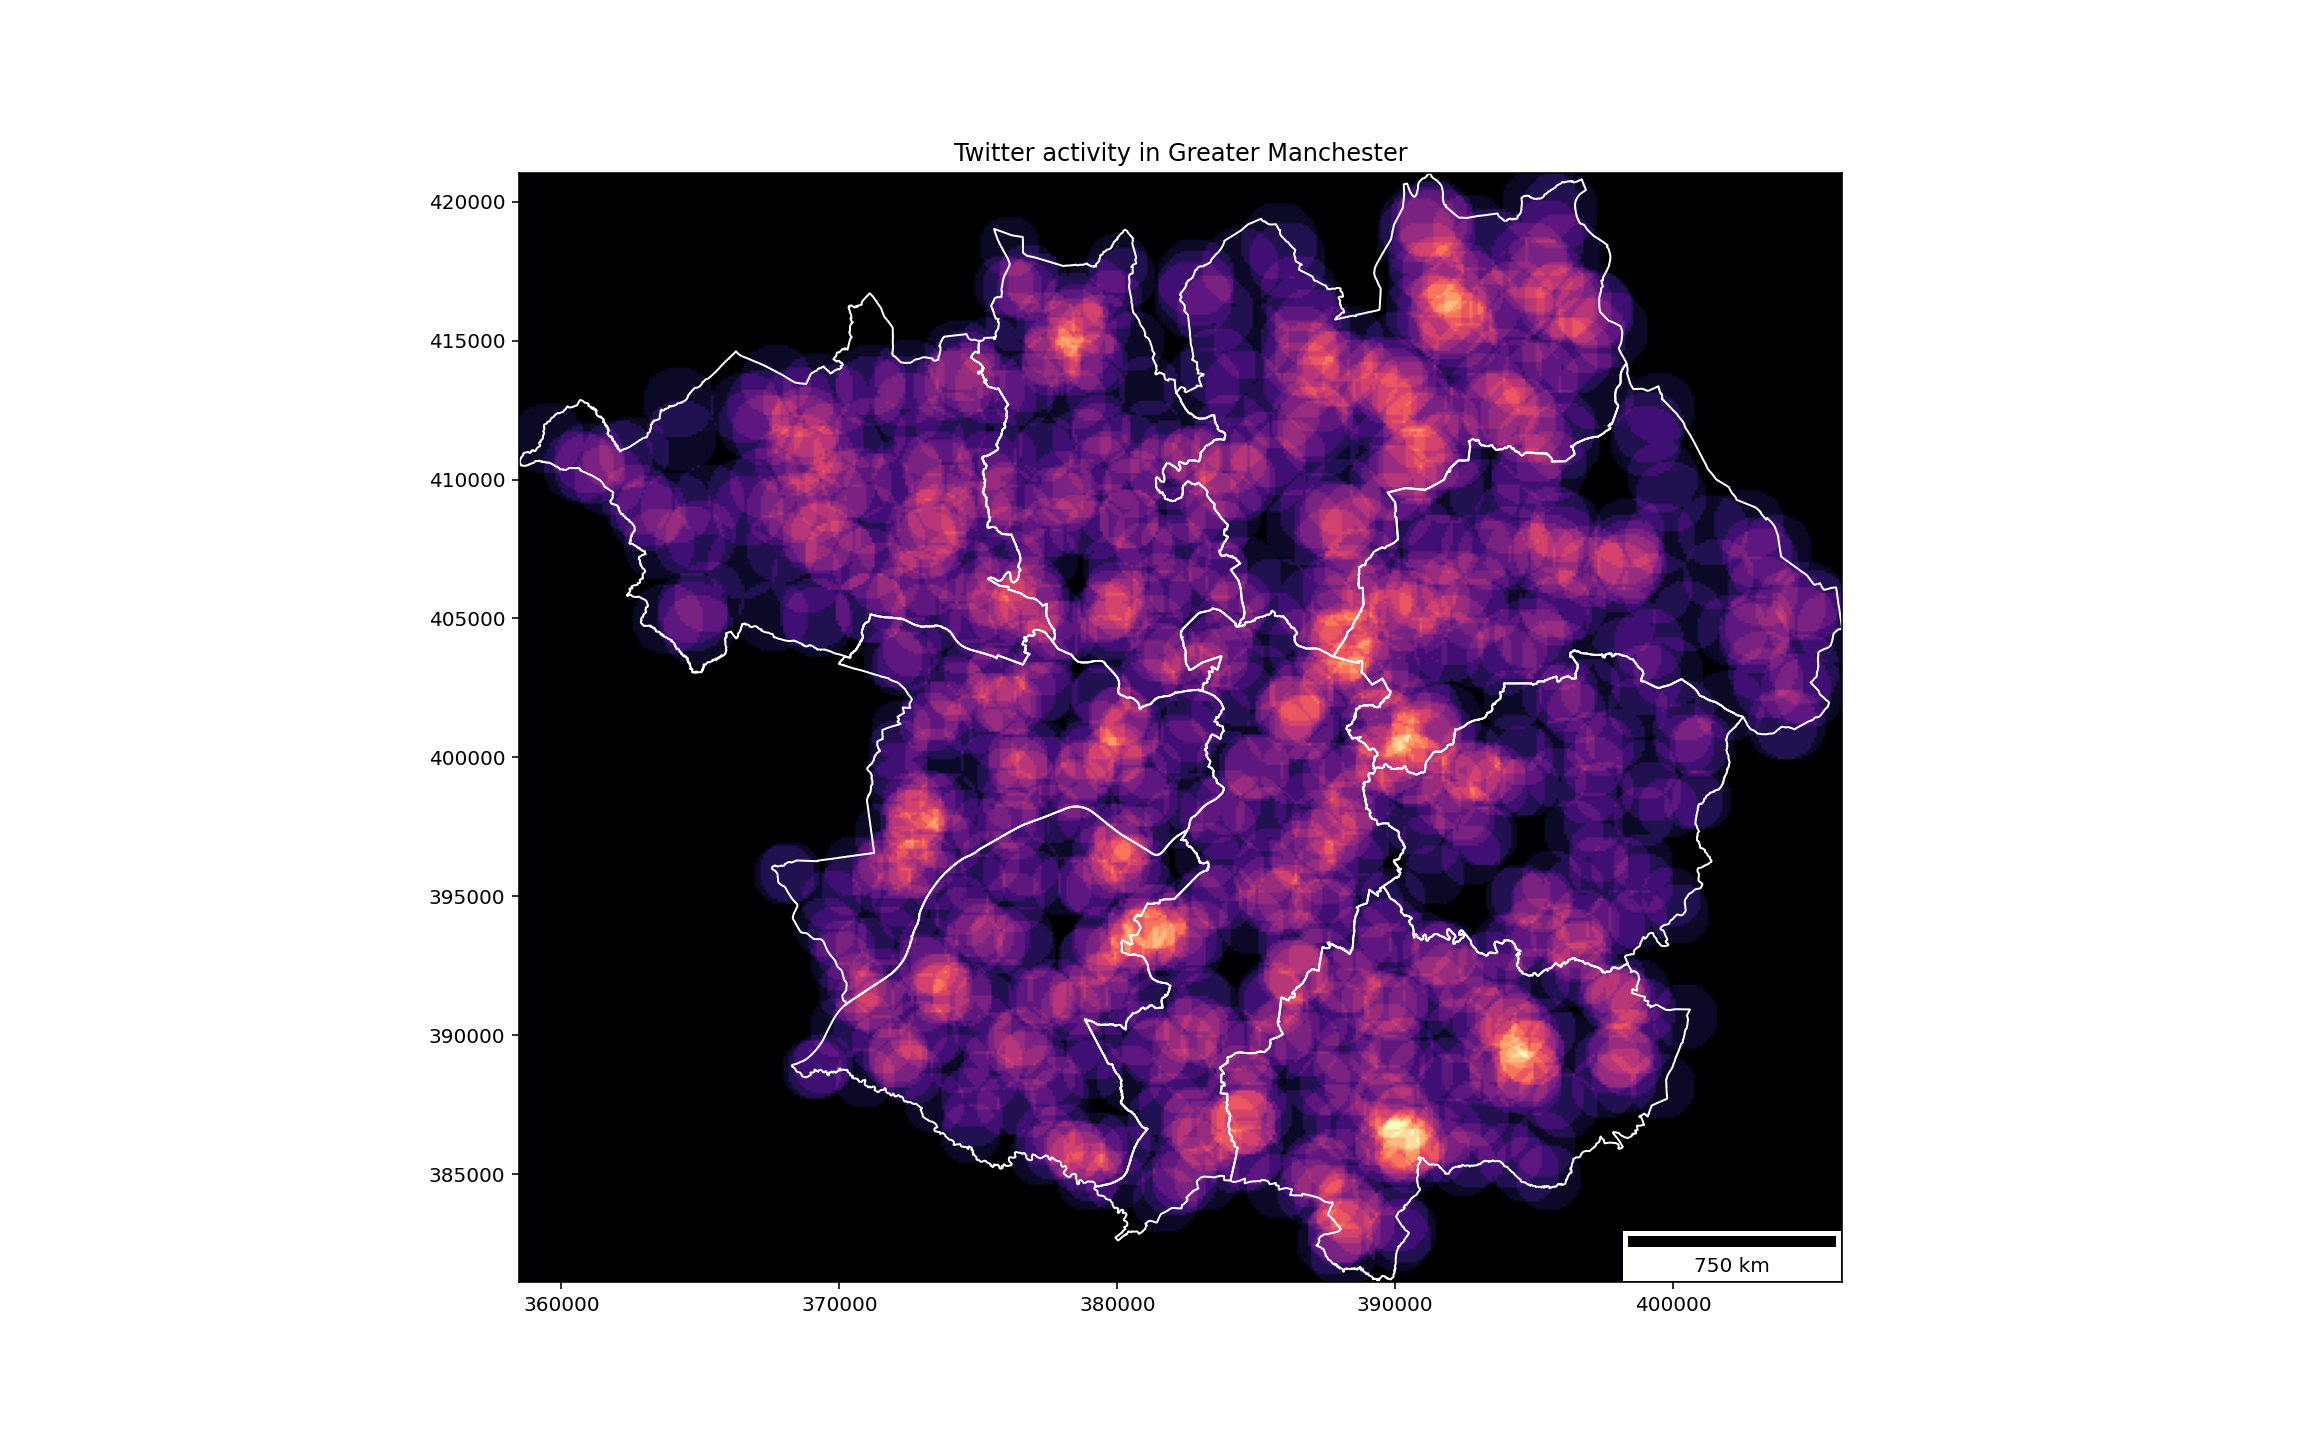
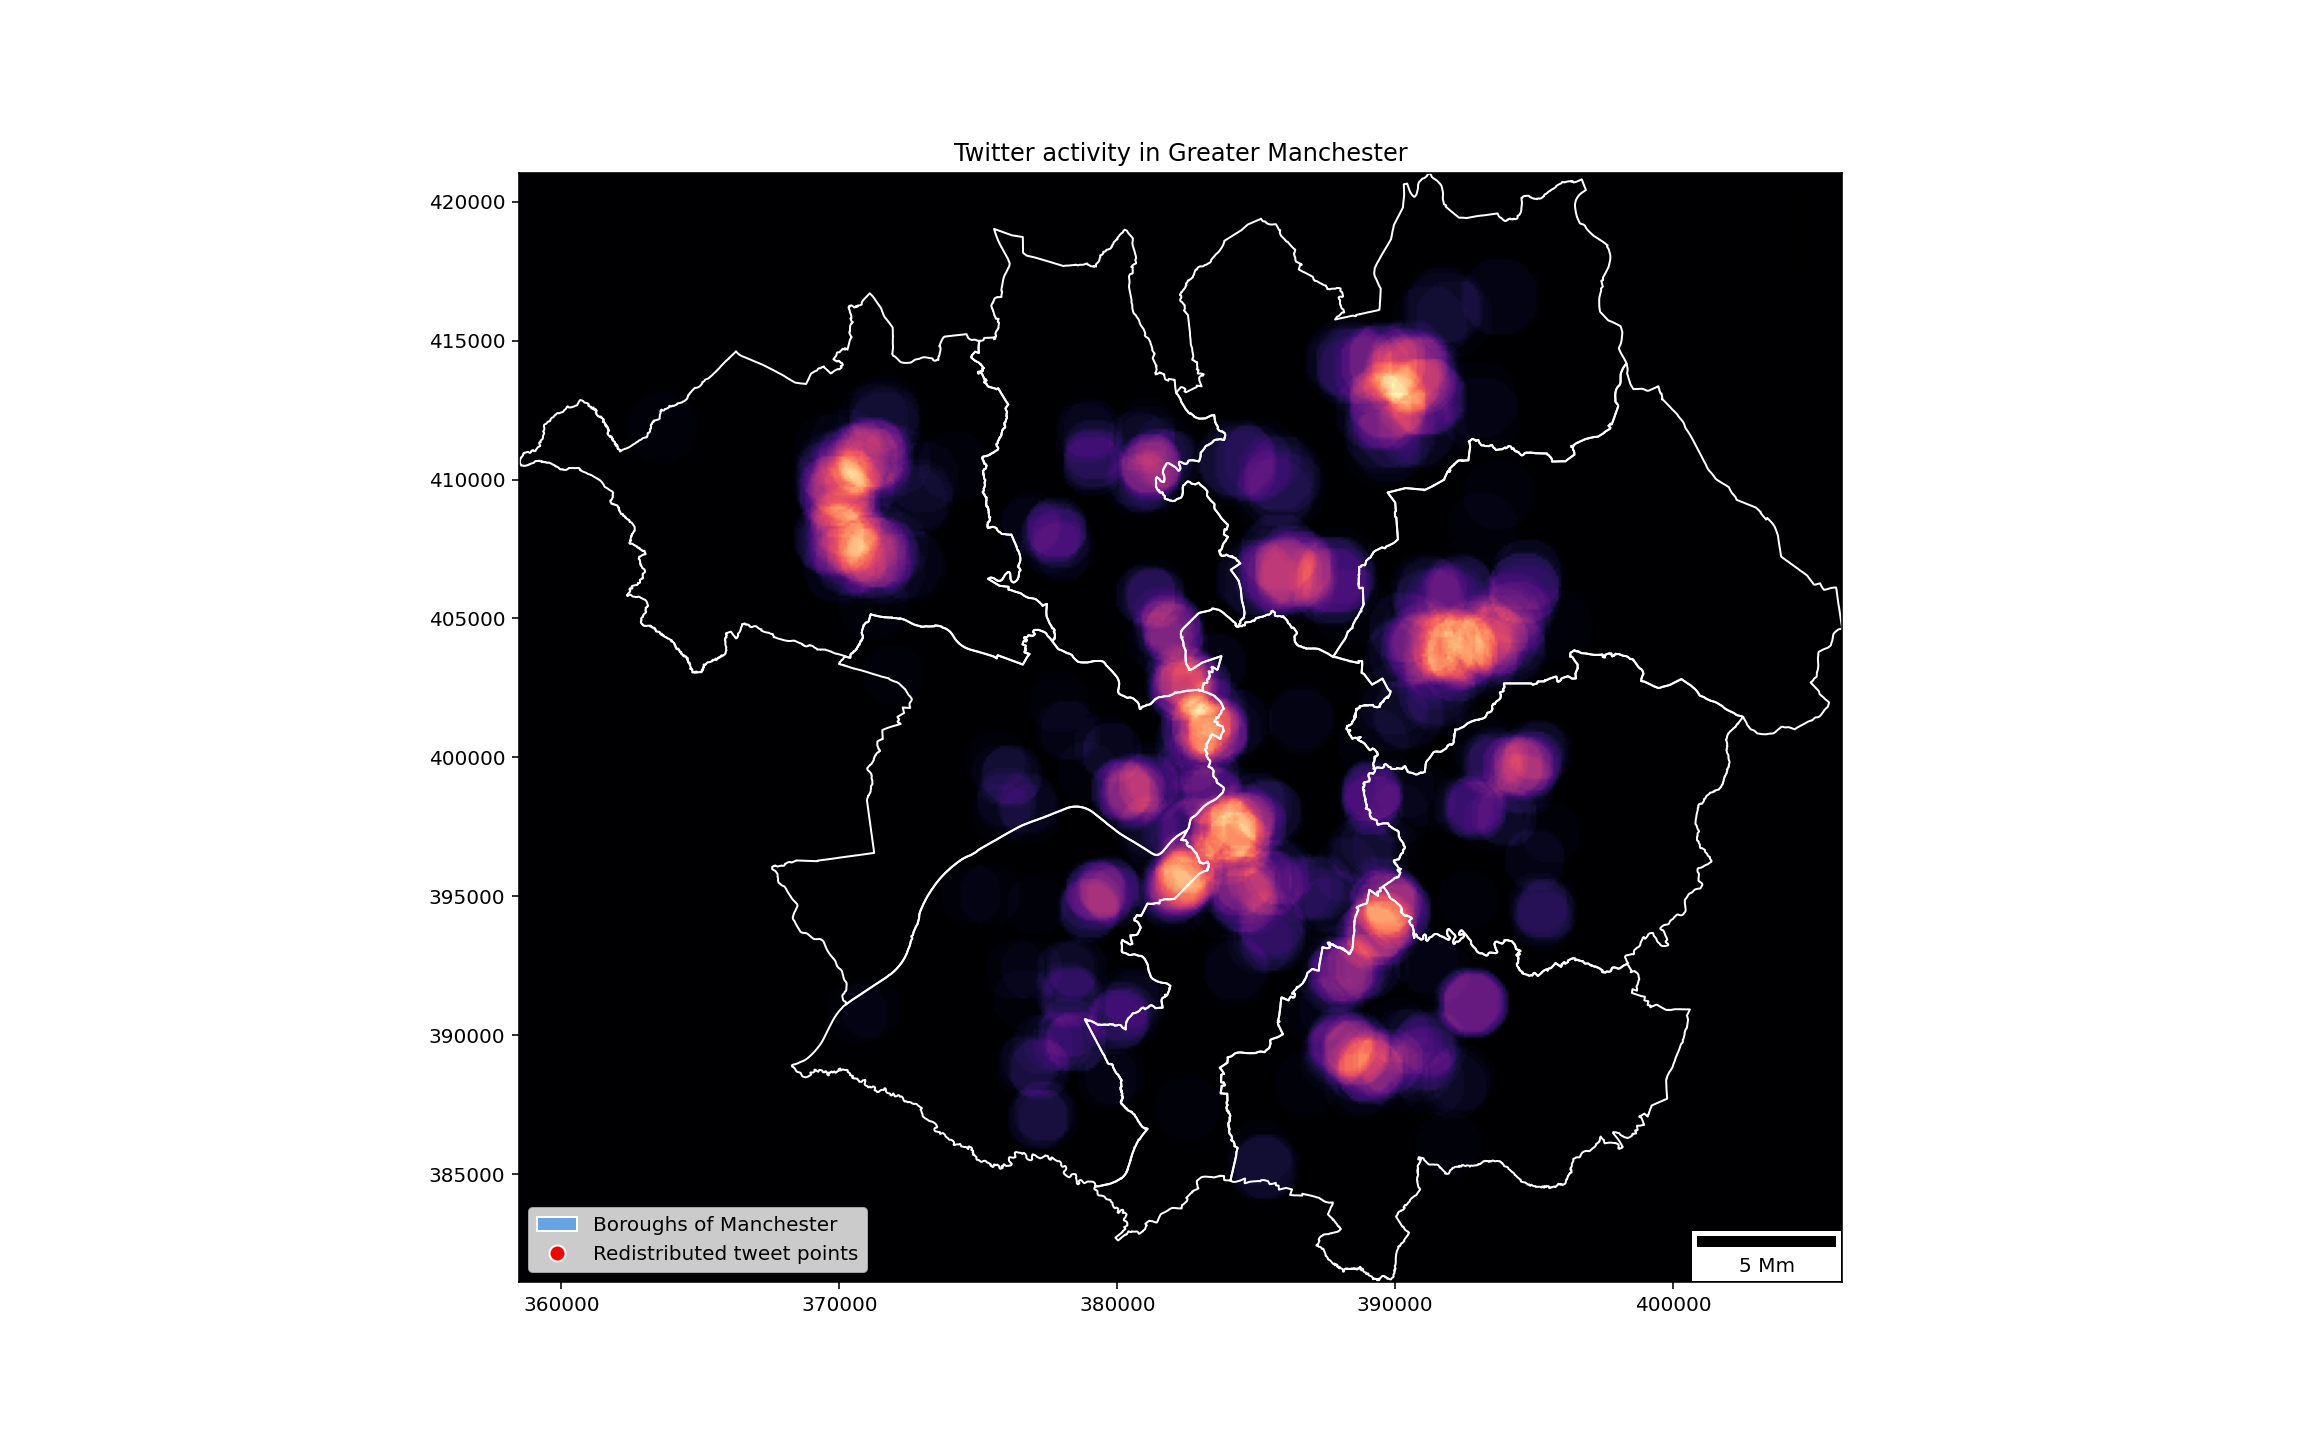
Update

Changed region(s): [[0.2188, 0.0938, 0.8125, 0.9062], [0.2188, 0.8125, 0.375, 0.9062], [0.6875, 0.8438, 0.7812, 0.9062]]

diff --git a/assessment2.py b/assessment2.py
@@ -9,7 +9,6 @@ start_time = perf_counter()
 
 # --- NO CODE ABOVE HERE ---
 
-
 from geopandas import read_file
 from rasterio import open as rio_open
 from numpy.random import uniform
@@ -21,6 +20,8 @@ from rasterio.plot import show as rio_show
 from skimage.draw import disk
 from random import seed
 from numpy import zeros
+from matplotlib.lines import Line2D
+from matplotlib.patches import Patch
     #Importing files
 tweets_dataset = read_file("C:/Users/User/OneDrive - The University of Manchester/UGIS/GitHub/ugis-assessment2/data/wr/level3-tweets-subset.shp")
 gm_districts = read_file("C:/Users/User/OneDrive - The University of Manchester/UGIS/GitHub/ugis-assessment2/data/wr/gm-districts.shp")
@@ -49,9 +50,6 @@ def weighted_redistribution (w,s):
         #Get the bounds radius of the admin
         minx, miny, maxx, maxy = geom.bounds
         
-        #Bounding radius
-        br = max(maxx-minx, maxy-miny)/2
-        
         #Select points within this polygon
         tweet_points_in_admin = tweet_points[tweet_points.within(geom)]
         if tweet_points_in_admin.empty:
@@ -63,7 +61,7 @@ def weighted_redistribution (w,s):
             best_location = None
             
             #Checking multiple random locations inside the polygon
-            for spot in range(1000):
+            for spot in range(100):
                 x = uniform(low=minx, high=maxx)
                 y = uniform(low=miny, high=maxy)
                 random_point = Point(x,y)
@@ -77,8 +75,7 @@ def weighted_redistribution (w,s):
                             highest_pop = pop_value
                             best_location = random_point
                             
-                if best_location is not None:
-                    break
+              
             #If no valid point is found
             if best_location is None:
                 best_location = geom.centroid
@@ -97,6 +94,7 @@ outputSurface = weighted_redistribution (w=1.0, s=0.2)
 
 #Creating a map
 fig, my_ax = subplots(1,1,figsize=(16,10))
+my_ax.set_facecolor('#bcbddc')
 my_ax.set_title("Twitter activity in Greater Manchester")
 
 rio_show(
@@ -120,7 +118,14 @@ my_ax.annotate('N', xy=(x, y), xytext=(x, y-arrow_length),
     ha='center', va='center', fontsize=20, xycoords=my_ax.transAxes)
 
 # add scalebar
-my_ax.add_artist(ScaleBar(dx=100, units="m", location="lower right"))
+my_ax.add_artist(ScaleBar(dx=1, units="km", location="lower right"))
+
+# add legend for point
+my_ax.legend(
+    handles=[
+        Patch(facecolor=(0, 0.5, 1, 0.5), edgecolor='white', label=f'Boroughs of Manchester'),
+        Line2D([0], [0], marker='o', color=(1,1,1,0), label='Redistributed tweet points', markerfacecolor='red', markersize=8)
+    ], loc='lower left')
 
 #Save the image
 savefig('./out/twitter_activity_gm.png')
